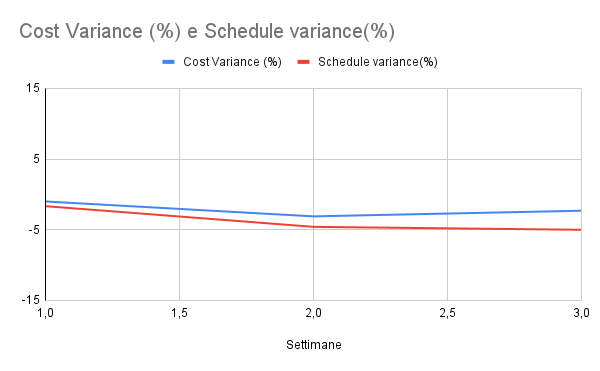
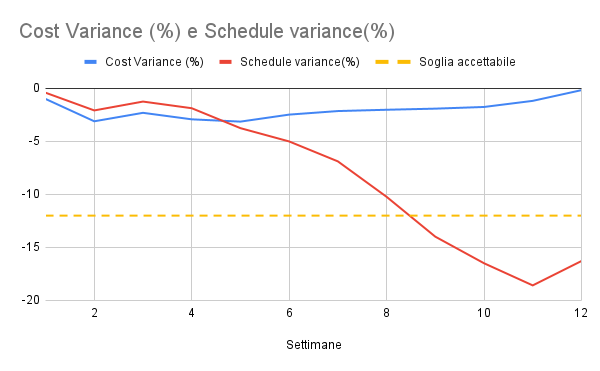
aggiunti grafici e considerazioni su qualità di processo

diff --git a/piano_di_qualifica/piano_di_qualifica_v0.1.1.tex b/piano_di_qualifica/piano_di_qualifica_v0.1.1.tex
@@ -13,7 +13,7 @@
 
 \graphicspath{ {../templates/img/} {./img}}
 
-\title{Piano di progetto}
+\title{Piano di qualifica}
 
 \firstPage
 
@@ -28,7 +28,7 @@
 		\hline
 
 		\textit{Redattori}    &
-		[Davide Porporati, Elena Marchioro, Francesco Naletto]\makecell{} \\
+		[Davide Porporati, Claudio Giaretta, Francesco Naletto]\makecell{} \\
 
 		\textit{Revisori}     &
 		[Jude Vensil Braceros]\makecell{}                                 \\
@@ -54,6 +54,7 @@
 \addversione{0.0.1}{25/04/2023}{Andrea Veronese}{Davide Porporati}{Creata struttura di base del documento}
 \addversione{0.0.2}{27/04/2023}{Davide Porporati, Elena Marchioro, Francesco Naletto}{Jude Vensil Braceros}{Modificata la struttura del documento}
 \addversione{0.1.0}{25/05/2023}{Claudio Giaretta, Francesco Naletto}{Francesco Naletto}{Stesura introduzione, qualità di processo e qualità di prodotto}
+\addversione{0.1.1}{13/07/2023}{Claudio Giaretta}{Francesco Naletto}{Aggiornamento dei grafici e aggiunta delle ultime considerazioni del gruppo}
 \makeversioni
 
 \section{Introduzione}
@@ -61,9 +62,6 @@
 Questo documento ha lo scopo di definire le strategia di validazione e verifica addottate per garantire la qualità del prodotto.
 Per raggiungere questo obbiettivo viene applicato un sistema di verifica continua sui processi e sulle attività del gruppo, questo permette di ottenere un miglioramento continuo.
 Il documento non ha una funzione descrittiva, la definizione delle metriche indicate all'interno di questo documento, è presente nel documento "norme\_di\_progetto".
-\subsection{Scopo del capitolato}
-In Italia, il prezzo del gas è aumentato significativamente, e il consumo di gas e carbone sta portando ad un aumento delle emissioni di gas serra e CO2. Per affrontare il problema del costo dell'energia, molti comuni stanno tagliando l'illuminazione pubblica, ma questo può essere evitato attraverso l'implementazione di un sistema di illuminazione pubblica ottimizzato, che consentirebbe sia la sicurezza stradale che il risparmio energetico ed economico.
-Nel capitolato in questione si vuole implementare questa soluzione tramite un applicativo web. Quest'ultimo permetterebbe la gestione dell'illuminazione in modo sia automatico che manuale.
 \section{Qualità di processo}
 
 \subsection{Processi primari}
@@ -93,13 +91,13 @@ Nel capitolato in questione si vuole implementare questa soluzione tramite un ap
 	      \begin{itemize}
 		      \item \textbf{Calcolo della metrica}:  EV - AC
 		      \item \textbf{Valore ottimale}: $\ge 0\%$
-		      \item \textbf{Valore accettabile}: $\ge -10\%$
+		      \item \textbf{Valore accettabile}: $\ge -12\%$
 	      \end{itemize}
 	\item MPC05: Schedule Variance (SV)
 	      \begin{itemize}
 		      \item \textbf{Calcolo della metrica}:  EV - PV
 		      \item \textbf{Valore ottimale}: $\ge 0\%$
-		      \item \textbf{Valore accettabile}: $\ge -10\%$
+		      \item \textbf{Valore accettabile}: $\ge -12\%$
 	      \end{itemize}
 
 	\item MPC06: Cost Performance Index (CPI)
@@ -237,6 +235,9 @@ Per assicurare la qualità del prodotto, abbiamo adottato lo standard ISO/IEC 91
 \section{Specifica di test}
 \section {Applicazione e valutazione delle metriche}
 I grafici sono frutto di un foglio di calcolo creato dal gruppo che applica le formule per il calcolo delle metriche definite in questo documento.
+
+\subsection{Valutazione d’insieme (Qualità di processo)}
+Il lavoro è proseguito secondo le aspettative del gruppo.È stato riscontrato un calo delle ore lavorate negli sprint 8,9,10 dovuti a impegni universitari dei membri del gruppo. Questo calo ha particolarmente influenzato il grafico dello schedule variance che è effettivamente sceso sotto la soglia di tolleranza prefissata dal gruppo. Lo stesso si può riscontrare nella distanza tra il planned e l’earned value, che è cresciuta particolarmente durante quegli sprint. Il gruppo aveva comunque previsto un calo di lavoro durante gli sprint indicati, stimando di rientrare all’interno dei valori di tolleranza nei successivi sprint. 
 
 \subsection{Planning Value, Actual Cost e Earned Value}
 \begin{center}
